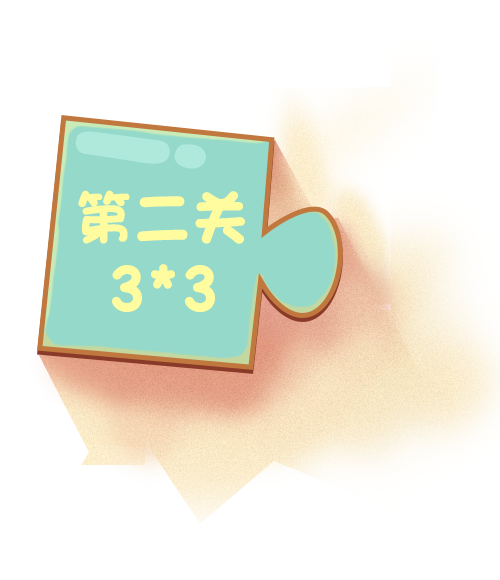
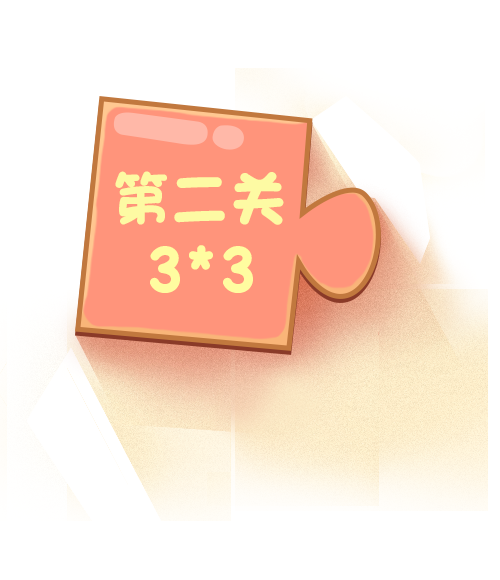
接口测试成功和样式

diff --git a/src/views/pass.vue b/src/views/pass.vue
@@ -52,19 +52,19 @@
       </div>
       <div>
         <img
-          class="four"
+          class="fourth"
           v-if="this.forth=='unlock' "
-          src="../assets/img/pass/four.png"
+          src="../assets/img/pass/fourth.png"
           @click="checked('forth')"
         />
         <img
-          class="four"
+          class="fourth"
           v-if="this.forth =='success' "
           src="../assets/img/pass/forthpass.png"
           @click="checked('forth')"
         />
         <img
-          class="four"
+          class="fourth"
           v-if="this.forth =='lock'"
           v-on:click.self.prevent
           src="../assets/img/pass/lock.png"
@@ -191,7 +191,7 @@ export default {
 .first,
 .second,
 .third,
-.four {
+.fourth {
   width: 500px;
   height: 580px;
   position: absolute;
@@ -209,7 +209,7 @@ export default {
   left: 50px;
   top: 530px;
 }
-.four {
+.fourth {
   left: 320px;
   top: 550px;
 }
